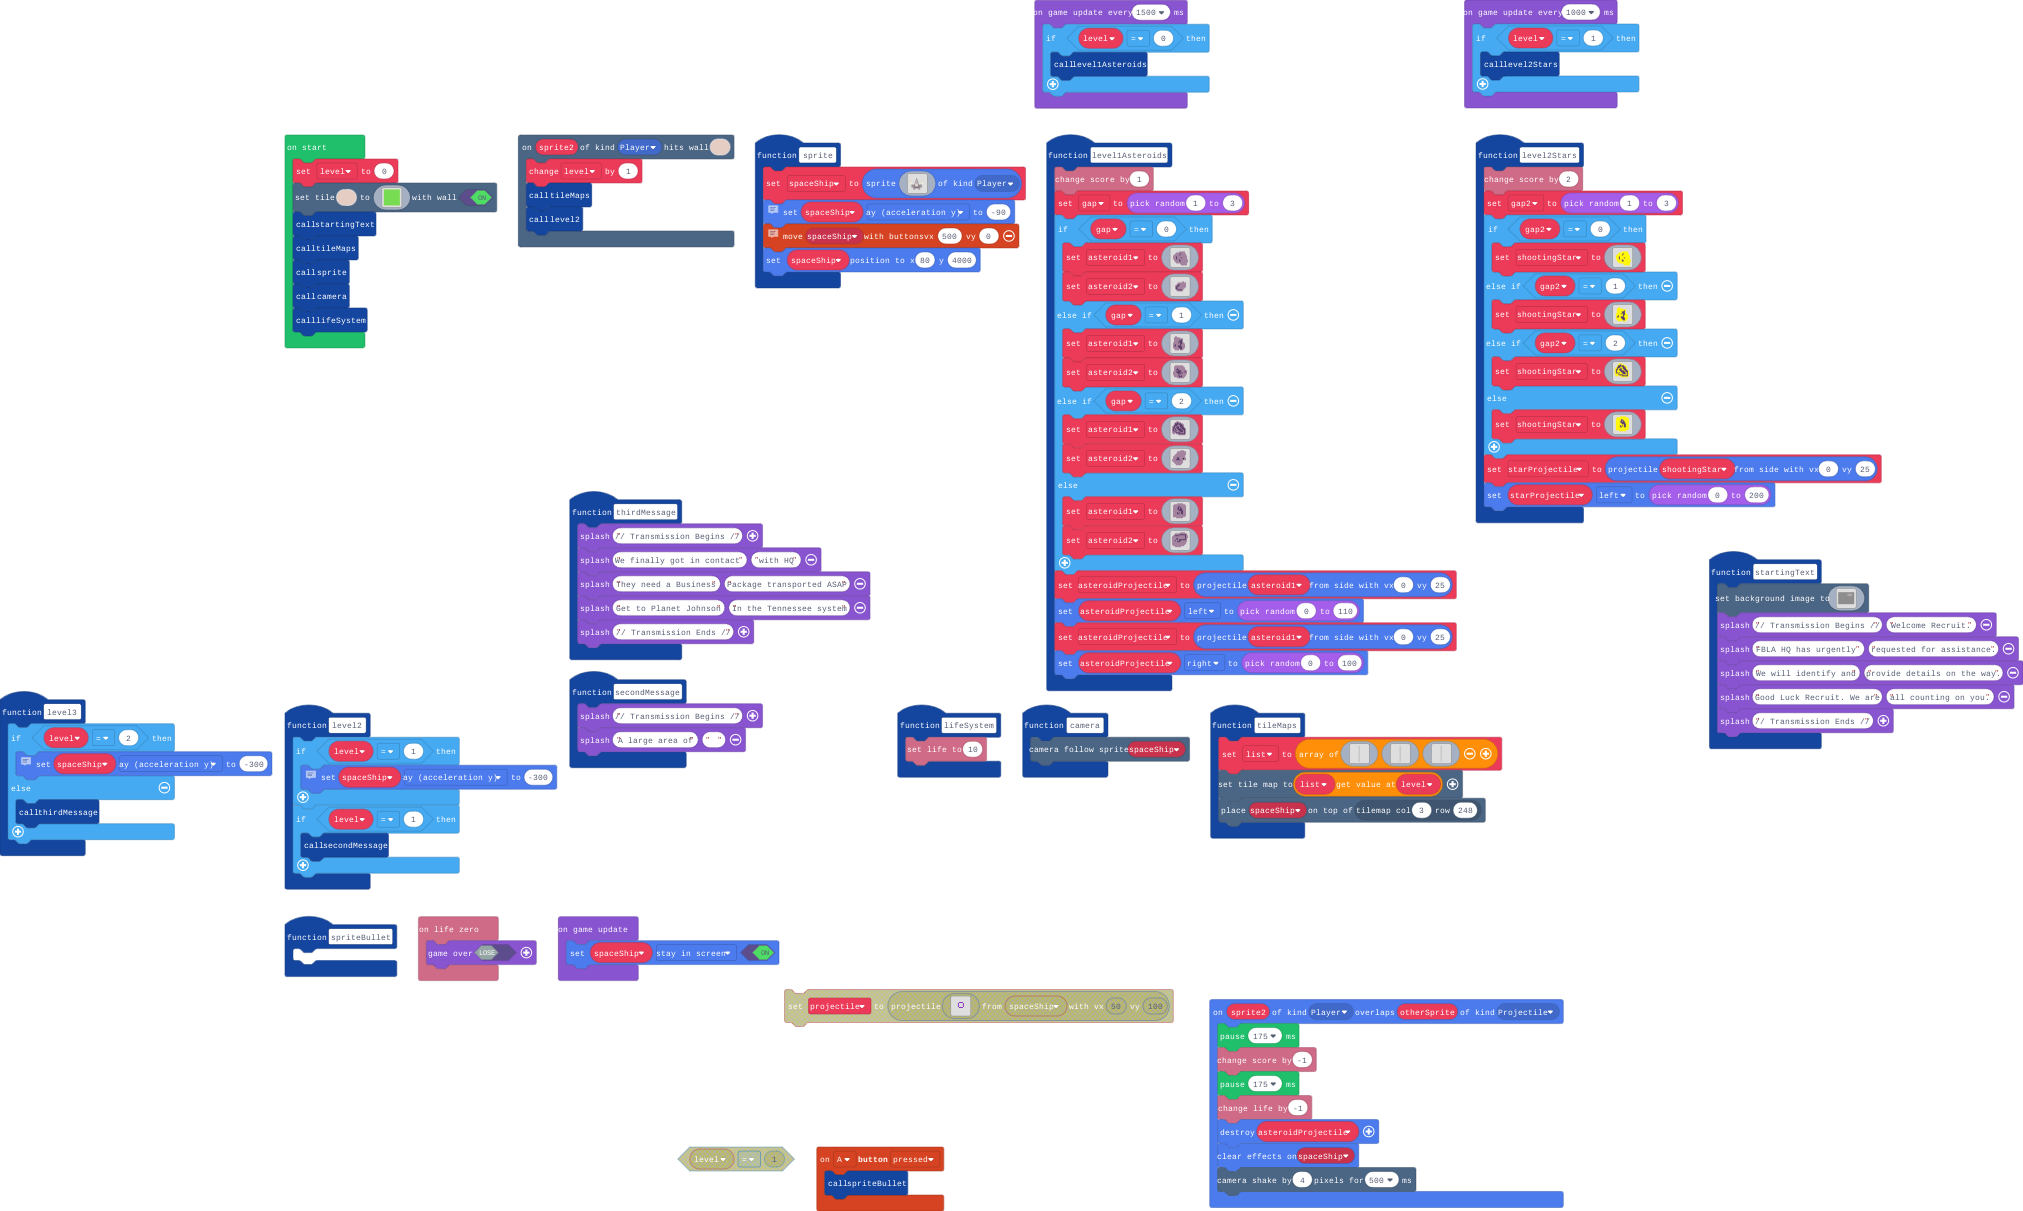
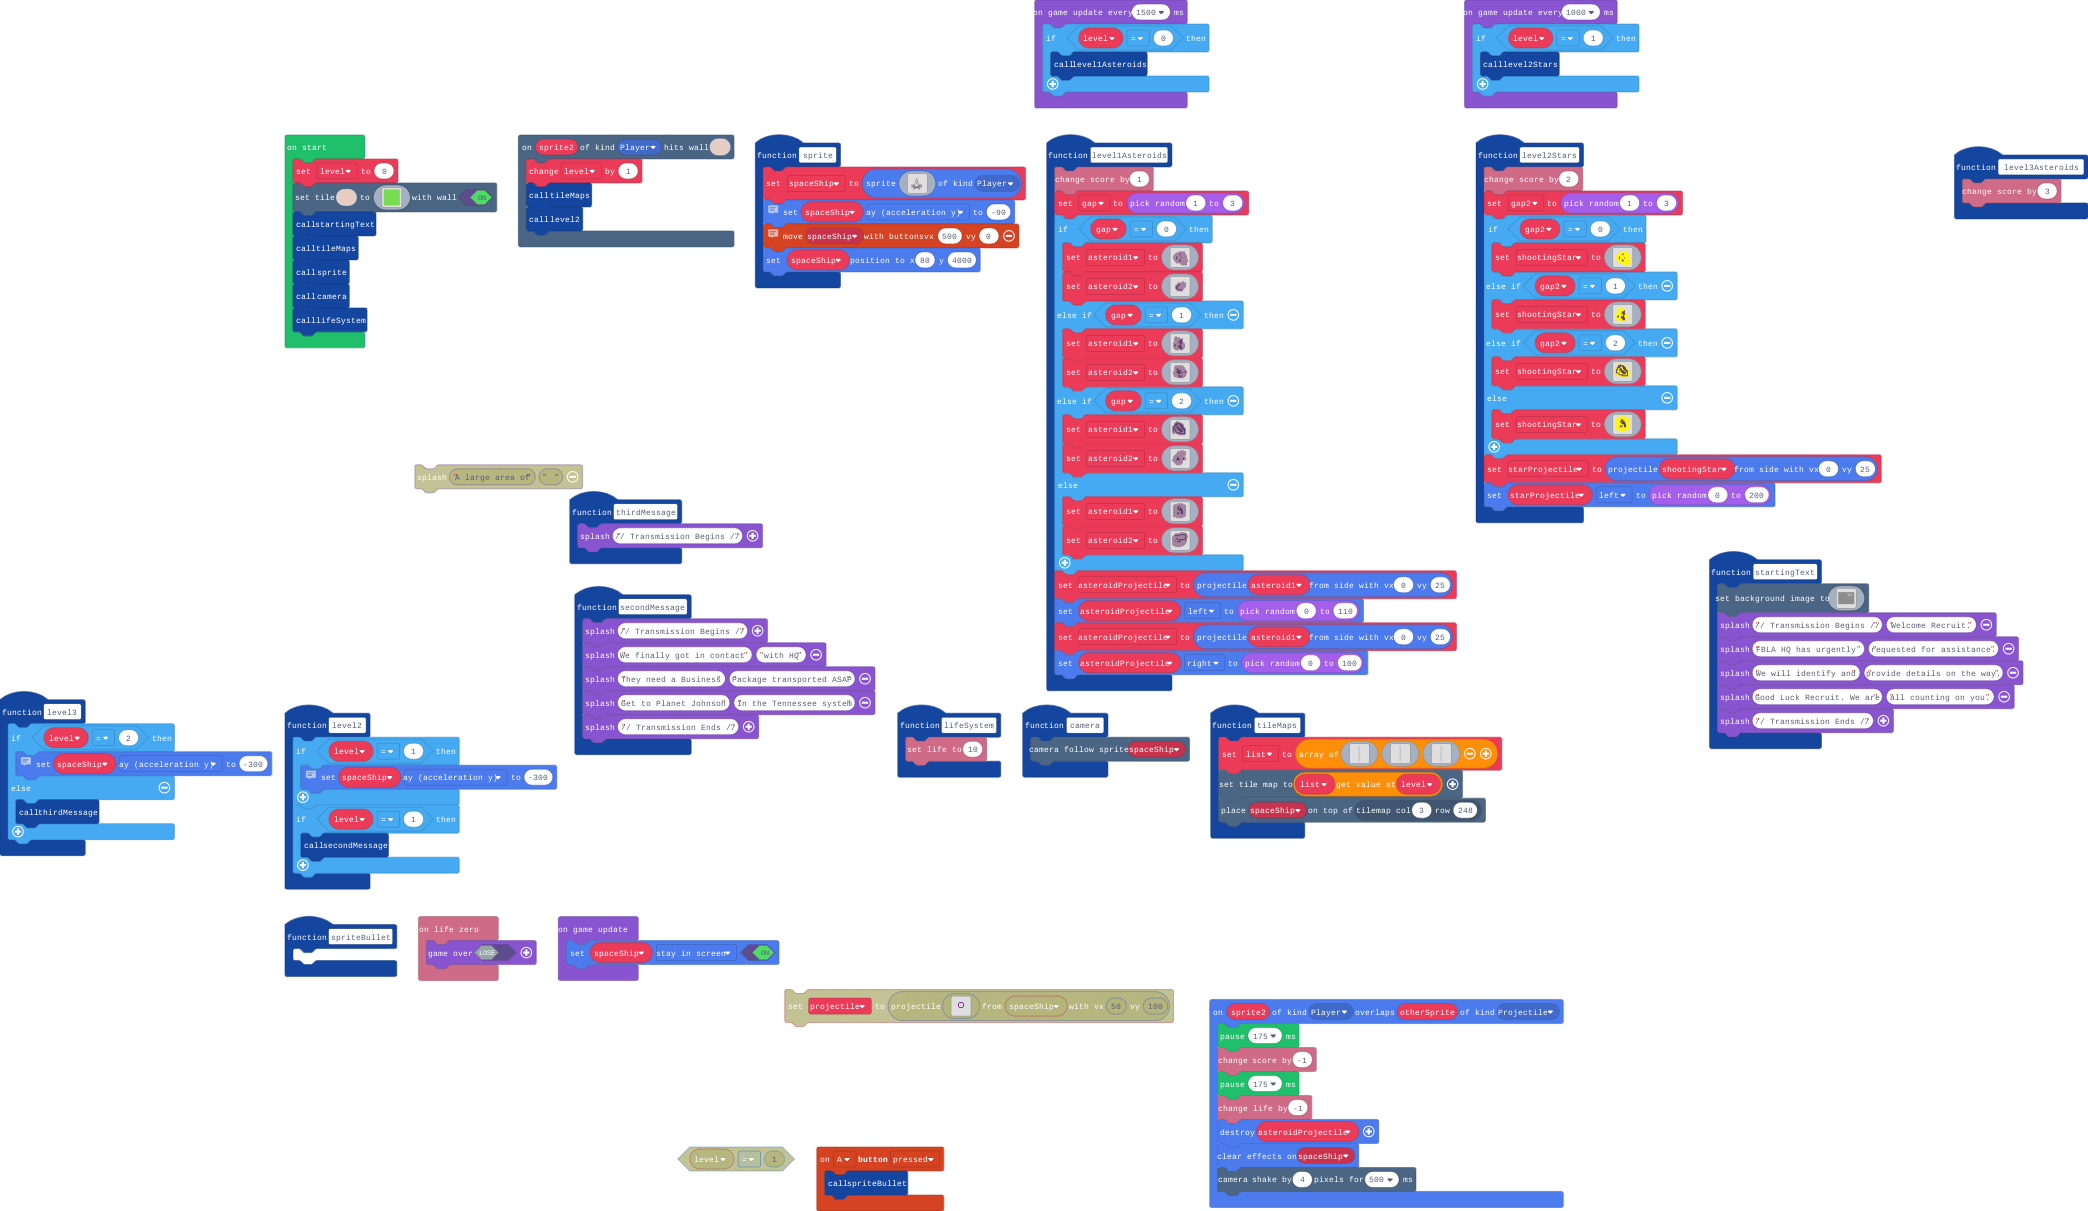
Update main.blocks, main.ts

diff --git a/main.ts b/main.ts
@@ -150,7 +150,10 @@ function level2 () {
 }
 function secondMessage () {
     game.splash("// Transmission Begins //")
-    game.splash("A large area of", "")
+    game.splash("We finally got in contact ", "with HQ")
+    game.splash("They need a Business", "Package transported ASAP")
+    game.splash("Get to Planet Johnson", "In the Tennessee system")
+    game.splash("// Transmission Ends //")
 }
 function lifeSystem () {
     info.setLife(10)
@@ -1062,10 +1065,9 @@ function spriteBullet () {
 }
 function thirdMessage () {
     game.splash("// Transmission Begins //")
-    game.splash("We finally got in contact ", "with HQ")
-    game.splash("They need a Business", "Package transported ASAP")
-    game.splash("Get to Planet Johnson", "In the Tennessee system")
-    game.splash("// Transmission Ends //")
+}
+function level3Asteroids () {
+    info.changeScoreBy(3)
 }
 info.onLifeZero(function () {
     game.over(false)
